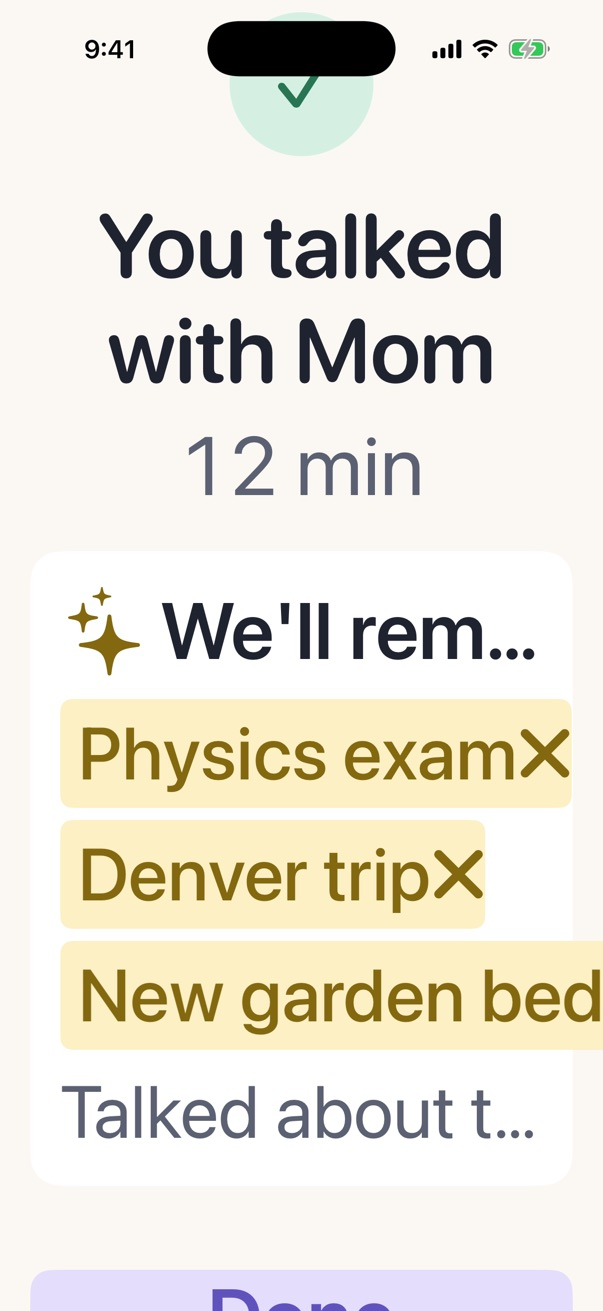
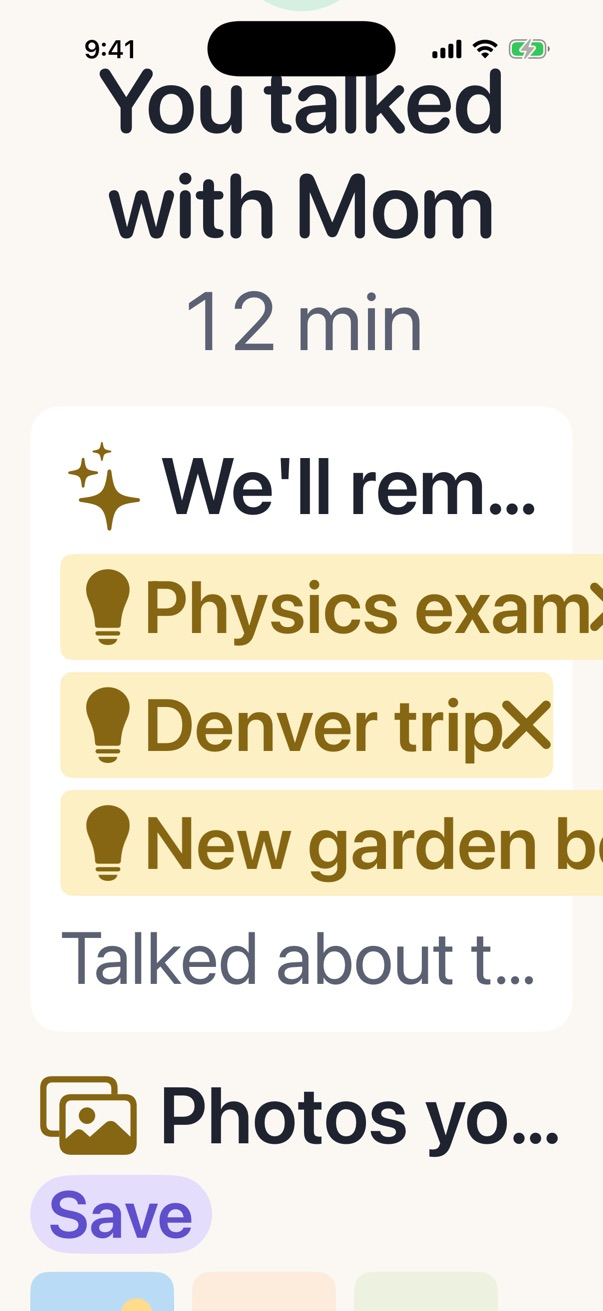
iOS: save or share a call's photos and videos from the summary
The post-call summary gets a Save menu (Save All to Photos / Share…) and a
per-item long-press menu. Items download to a temp folder, go to Photos or the
share sheet, and are deleted afterwards. Links expire after 5 minutes, so a
failed download refreshes them once. Exporting stops the 10 s auto-close.

CallPhoto now decodes an optional kind (photo/video) and videoUrl, so video
shares export the clip once the server sends them; older responses decode as photos.

diff --git a/ios/App/Call/CallSummaryView.swift b/ios/App/Call/CallSummaryView.swift
@@ -9,6 +9,7 @@ import SwiftUI
 struct CallSummaryView: View {
     @Environment(AppModel.self) private var app
     @State private var interacted = false
+    @State private var exportStatus = ExportStatus.idle
 
     /// The outro starts once the summary has slid in (FlowContainer's move transition).
     static let presentDelay = Motion.Durations.move
@@ -94,10 +95,29 @@ struct CallSummaryView: View {
     }
 
     private func photos(_ p: MemoryStore.PendingSummary) -> some View {
-        VStack(alignment: .leading, spacing: Space.s) {
-            HStack(spacing: Space.xs) {
-                Image(systemName: "photo.on.rectangle").foregroundStyle(Palette.butterStrong)
-                Text("Photos you shared").font(.headline).foregroundStyle(Palette.ink)
+        let hasVideo = p.photos.contains(where: \.isVideo)
+        return VStack(alignment: .leading, spacing: Space.s) {
+            AdaptiveStack(spacing: Space.xs) {
+                HStack(spacing: Space.xs) {
+                    Image(systemName: "photo.on.rectangle").foregroundStyle(Palette.butterStrong)
+                    Text(hasVideo ? "Photos and videos you shared" : "Photos you shared").font(.headline).foregroundStyle(Palette.ink)
+                }
+                .frame(maxWidth: .infinity, alignment: .leading)
+                Menu {
+                    Button("Save All to Photos", systemImage: "square.and.arrow.down") { export(p.photos, callId: p.callId, to: .photos) }
+                    Button("Share…", systemImage: "square.and.arrow.up") { export(p.photos, callId: p.callId, to: .shareSheet) }
+                } label: {
+                    Group {
+                        if exportStatus == .working { ProgressView().controlSize(.small) } else { Text("Save") }
+                    }
+                    .font(.footnote.weight(.semibold))
+                    .foregroundStyle(Palette.lavenderStrong)
+                    .padding(.horizontal, Space.s)
+                    .frame(minWidth: 44, minHeight: 34)
+                    .background(Palette.lavender, in: Capsule())
+                }
+                .disabled(exportStatus == .working)
+                .accessibilityLabel(hasVideo ? "Save photos and videos" : "Save photos")
             }
             .padding(.horizontal, Space.margin)
             ScrollView(.horizontal, showsIndicators: false) {
@@ -106,14 +126,107 @@ struct CallSummaryView: View {
                         // Screenshot mode has no server, so its fixtures name a bundled scene instead.
                         PhotoContent(image: app.isPreview ? .placeholder(photo.shareId) : .url(photo.url))
                             .frame(width: 96, height: 128)
+                            .overlay(alignment: .bottomLeading) {
+                                if photo.isVideo {
+                                    Image(systemName: "play.fill").font(.caption.weight(.bold)).foregroundStyle(.white)
+                                        .padding(6).background(.black.opacity(0.45), in: Circle()).padding(6)
+                                        .accessibilityHidden(true)
+                                }
+                            }
                             .clipShape(RoundedRectangle(cornerRadius: Radius.input, style: .continuous))
-                            .accessibilityLabel(photo.senderId == p.friendId ? "Photo from \(p.friendName)" : "Photo you showed")
+                            .contentShape(.contextMenuPreview, RoundedRectangle(cornerRadius: Radius.input, style: .continuous))
+                            .contextMenu {
+                                Button("Save to Photos", systemImage: "square.and.arrow.down") { export([photo], callId: p.callId, to: .photos) }
+                                Button("Share…", systemImage: "square.and.arrow.up") { export([photo], callId: p.callId, to: .shareSheet) }
+                            }
+                            .accessibilityLabel(label(for: photo, in: p))
                     }
                 }
                 .padding(.horizontal, Space.margin)
             }
             .simultaneousGesture(DragGesture(minimumDistance: 4).onChanged { _ in interacted = true })
+            exportMessage.padding(.horizontal, Space.margin)
         }
         .transition(.opacity)
     }
+
+    private func label(for photo: CallPhoto, in p: MemoryStore.PendingSummary) -> String {
+        let noun = photo.isVideo ? "Video" : "Photo"
+        return photo.senderId == p.friendId ? "\(noun) from \(p.friendName)" : "\(noun) you showed"
+    }
+
+    @ViewBuilder private var exportMessage: some View {
+        switch exportStatus {
+        case .saved(let count, let videos):
+            Label(savedText(count: count, videos: videos), systemImage: "checkmark.circle.fill")
+                .font(.footnote).foregroundStyle(Palette.inkSecondary).transition(.opacity)
+        case .noAccess:
+            HStack(spacing: Space.xs) {
+                Text("Nudge needs permission to add to Photos.").font(.footnote).foregroundStyle(Palette.inkSecondary)
+                Button("Open Settings") {
+                    if let url = URL(string: UIApplication.openSettingsURLString) { UIApplication.shared.open(url) }
+                }
+                .font(.footnote.weight(.semibold)).foregroundStyle(Palette.lavenderStrong)
+            }
+        case .failed:
+            Text("Couldn't save. Check your connection and try again.").font(.footnote).foregroundStyle(Palette.roseStrong)
+        case .idle, .working:
+            EmptyView()
+        }
+    }
+
+    private func savedText(count: Int, videos: Int) -> String {
+        let photos = count - videos
+        switch (photos, videos) {
+        case (_, 0): return photos == 1 ? "Saved to Photos" : "Saved \(photos) photos to Photos"
+        case (0, _): return videos == 1 ? "Saved to Photos" : "Saved \(videos) videos to Photos"
+        default: return "Saved \(count) items to Photos"
+        }
+    }
+
+    private enum Destination { case photos, shareSheet }
+
+    /// Downloads the items, then saves them or opens the share sheet. Any export keeps the screen from auto-closing.
+    private func export(_ items: [CallPhoto], callId: String, to destination: Destination) {
+        interacted = true
+        // Screenshot mode's photos are bundled scenes with no files behind them.
+        guard !app.isPreview else { return }
+        exportStatus = .working
+        let memory = app.memory
+        Task {
+            do {
+                let files = try await CallMediaExport.download(items, refresh: { await memory.refreshPhotos(callId: callId) })
+                switch destination {
+                case .shareSheet:
+                    exportStatus = .idle
+                    presentShareSheet(files)
+                case .photos:
+                    defer { CallMediaExport.discard(files) }
+                    try await CallMediaExport.saveToPhotos(files)
+                    exportStatus = .saved(count: files.count, videos: files.filter { $0.kind == .video }.count)
+                }
+            } catch CallMediaExport.Failure.photosAccessDenied {
+                exportStatus = .noAccess
+            } catch {
+                exportStatus = .failed
+            }
+        }
+    }
+}
+
+private enum ExportStatus: Equatable {
+    case idle, working, saved(count: Int, videos: Int), noAccess, failed
+}
+
+/// The system share sheet, presented from UIKit so the downloaded files can be deleted once it closes,
+/// whatever the person picked.
+@MainActor private func presentShareSheet(_ files: [CallMediaExport.File]) {
+    let sheet = UIActivityViewController(activityItems: files.map(\.url), applicationActivities: nil)
+    sheet.completionWithItemsHandler = { _, _, _, _ in CallMediaExport.discard(files) }
+    let root = UIApplication.shared.connectedScenes.compactMap { ($0 as? UIWindowScene)?.keyWindow }.first?.rootViewController
+    var top = root
+    while let next = top?.presentedViewController { top = next }
+    guard let top else { return CallMediaExport.discard(files) }
+    sheet.popoverPresentationController?.sourceView = top.view
+    top.present(sheet, animated: true)
 }

diff --git a/ios/Packages/NudgeKit/Tests/NudgeKitTests/CallMediaExportTests.swift b/ios/Packages/NudgeKit/Tests/NudgeKitTests/CallMediaExportTests.swift
@@ -1,0 +1,92 @@
+import Foundation
+import Testing
+@testable import Models
+@testable import PhotoShare
+
+@Suite("CallMediaExport — post-call save & share", .serialized)
+struct CallMediaExportTests {
+    private func item(_ id: String, kind: CallPhoto.Kind = .photo, url: String = "https://s3.test/photos/u/a.jpg?sig=1", video: String? = nil) -> CallPhoto {
+        CallPhoto(shareId: id, senderId: "u_1", kind: kind, url: URL(string: url)!, videoUrl: video.flatMap(URL.init(string:)), createdAt: .now)
+    }
+
+    @Test func decodesPhotosFromServersWithoutVideo() throws {
+        let json = #"{"shareId":"s_1","senderId":"u_1","url":"https://x/a.jpg","createdAt":"2026-09-26T15:00:00.000Z"}"#
+        let p = try NudgeJSON.decoder().decode(CallPhoto.self, from: Data(json.utf8))
+        #expect(p.kind == .photo && !p.isVideo && p.exportURL.absoluteString == "https://x/a.jpg")
+    }
+
+    @Test func decodesVideosAndExportsTheClip() throws {
+        let json = #"{"shareId":"s_2","senderId":"u_1","kind":"video","url":"https://x/a.jpg","videoUrl":"https://x/a.mp4","createdAt":"2026-09-26T15:00:00Z"}"#
+        let v = try NudgeJSON.decoder().decode(CallPhoto.self, from: Data(json.utf8))
+        #expect(v.isVideo && v.exportURL.absoluteString == "https://x/a.mp4")
+    }
+
+    @Test func unknownKindsOrMissingClipsFallBackToTheImage() throws {
+        let json = #"{"shareId":"s_3","senderId":"u_1","kind":"hologram","url":"https://x/a.jpg","createdAt":"2026-09-26T15:00:00Z"}"#
+        #expect(try NudgeJSON.decoder().decode(CallPhoto.self, from: Data(json.utf8)).kind == .photo)
+        let clipless = item("s_4", kind: .video)
+        #expect(!clipless.isVideo && clipless.exportURL == clipless.url)
+    }
+
+    @Test func namesFilesByShareAndExtension() {
+        #expect(CallMediaExport.fileName(for: item("s_1")) == "nudge-s_1.jpg")
+        #expect(CallMediaExport.fileName(for: item("s_2", kind: .video, video: "https://s3.test/photos/u/a.MOV?sig=1")) == "nudge-s_2.mov")
+        #expect(CallMediaExport.fileName(for: item("s_3", url: "https://s3.test/blob")) == "nudge-s_3.jpg")
+        #expect(CallMediaExport.fileName(for: item("s_4", kind: .video, video: "https://s3.test/clip")) == "nudge-s_4.mp4")
+    }
+
+    @Test func refreshesExpiredLinksOnce() async throws {
+        StubProtocol.responses = [
+            "https://s3.test/ok.jpg": (200, Data("photo".utf8)),
+            "https://s3.test/expired.mp4": (403, Data()),
+            "https://s3.test/fresh.mp4": (200, Data("clip".utf8)),
+        ]
+        let session = StubProtocol.session()
+        let items = [item("s_1", url: "https://s3.test/ok.jpg"), item("s_2", kind: .video, url: "https://s3.test/p.jpg", video: "https://s3.test/expired.mp4")]
+        let fresh = [items[0], item("s_2", kind: .video, url: "https://s3.test/p.jpg", video: "https://s3.test/fresh.mp4")]
+        let refreshes = Counter()
+        let files = try await CallMediaExport.download(items, refresh: { await refreshes.bump(); return fresh }, session: session)
+        defer { CallMediaExport.discard(files) }
+
+        #expect(await refreshes.value == 1)
+        #expect(files.map(\.kind) == [.photo, .video])
+        #expect(try Data(contentsOf: files[1].url) == Data("clip".utf8))
+        CallMediaExport.discard(files)
+        #expect(!FileManager.default.fileExists(atPath: files[0].url.deletingLastPathComponent().path))
+    }
+
+    @Test func failsWhenRefreshDoesNotHelp() async {
+        StubProtocol.responses = ["https://s3.test/gone.jpg": (403, Data())]
+        await #expect(throws: CallMediaExport.Failure.downloadFailed) {
+            _ = try await CallMediaExport.download([item("s_1", url: "https://s3.test/gone.jpg")], refresh: { nil }, session: StubProtocol.session())
+        }
+    }
+}
+
+private actor Counter {
+    var value = 0
+    func bump() { value += 1 }
+}
+
+private final class StubProtocol: URLProtocol, @unchecked Sendable {
+    nonisolated(unsafe) static var responses: [String: (Int, Data)] = [:]
+
+    static func session() -> URLSession {
+        let config = URLSessionConfiguration.ephemeral
+        config.protocolClasses = [StubProtocol.self]
+        return URLSession(configuration: config)
+    }
+
+    override class func canInit(with request: URLRequest) -> Bool { true }
+    override class func canonicalRequest(for request: URLRequest) -> URLRequest { request }
+
+    override func startLoading() {
+        let url = request.url!
+        let (status, body) = Self.responses[url.absoluteString] ?? (404, Data())
+        client?.urlProtocol(self, didReceive: HTTPURLResponse(url: url, statusCode: status, httpVersion: nil, headerFields: nil)!, cacheStoragePolicy: .notAllowed)
+        client?.urlProtocol(self, didLoad: body)
+        client?.urlProtocolDidFinishLoading(self)
+    }
+
+    override func stopLoading() {}
+}

diff --git a/ios/Packages/NudgeKit/Sources/PhotoShare/CallMediaExport.swift b/ios/Packages/NudgeKit/Sources/PhotoShare/CallMediaExport.swift
@@ -1,0 +1,91 @@
+import Foundation
+import Models
+import Photos
+import os
+
+/// Post-call export: downloads the photos and videos shown on a call, then saves them to the library
+/// or hands the files to the share sheet. The recap's links expire after 5 minutes, so a failed
+/// download asks `refresh` for new ones once before giving up.
+public enum CallMediaExport {
+    public enum Failure: Error, Equatable, Sendable {
+        case photosAccessDenied
+        case downloadFailed
+    }
+
+    /// A downloaded item, living in its own temporary folder until `discard` is called.
+    public struct File: Sendable, Hashable {
+        public var url: URL
+        public var kind: CallPhoto.Kind
+    }
+
+    private static let log = Logger(subsystem: "app.nudge", category: "export")
+
+    /// `nudge-<shareId>.<ext>`, taking the extension from the link (S3 keeps the key's) and falling back by kind.
+    public static func fileName(for item: CallPhoto) -> String {
+        let ext = item.exportURL.pathExtension.lowercased()
+        let fallback = item.isVideo ? "mp4" : "jpg"
+        return "nudge-\(item.shareId).\(ext.isEmpty ? fallback : ext)"
+    }
+
+    /// Downloads every item, oldest first. Throws `.downloadFailed` if any item still fails after one refresh.
+    public static func download(
+        _ items: [CallPhoto],
+        refresh: @Sendable () async -> [CallPhoto]?,
+        session: URLSession = .shared
+    ) async throws -> [File] {
+        let dir = FileManager.default.temporaryDirectory.appending(path: "call-export-\(UUID().uuidString)", directoryHint: .isDirectory)
+        try FileManager.default.createDirectory(at: dir, withIntermediateDirectories: true)
+        var files: [File] = []
+        var fresh: [String: CallPhoto]?
+        do {
+            for item in items {
+                let dest = dir.appending(path: fileName(for: item))
+                if await fetch(item.exportURL, to: dest, session: session) {
+                    files.append(File(url: dest, kind: item.isVideo ? .video : .photo))
+                    continue
+                }
+                if fresh == nil { fresh = Dictionary((await refresh() ?? []).map { ($0.shareId, $0) }, uniquingKeysWith: { a, _ in a }) }
+                guard let renewed = fresh?[item.shareId], await fetch(renewed.exportURL, to: dest, session: session) else {
+                    throw Failure.downloadFailed
+                }
+                files.append(File(url: dest, kind: renewed.isVideo ? .video : .photo))
+            }
+        } catch {
+            try? FileManager.default.removeItem(at: dir)
+            throw error
+        }
+        return files
+    }
+
+    /// Adds the files to the photo library as new assets. Needs add-only access, which is asked for here.
+    public static func saveToPhotos(_ files: [File]) async throws {
+        let status = await PHPhotoLibrary.requestAuthorization(for: .addOnly)
+        guard status == .authorized || status == .limited else { throw Failure.photosAccessDenied }
+        try await PHPhotoLibrary.shared().performChanges {
+            for file in files {
+                PHAssetCreationRequest.forAsset().addResource(with: file.kind == .video ? .video : .photo, fileURL: file.url, options: nil)
+            }
+        }
+    }
+
+    /// Deletes the temporary folder the files were downloaded into.
+    public static func discard(_ files: [File]) {
+        for dir in Set(files.map { $0.url.deletingLastPathComponent() }) { try? FileManager.default.removeItem(at: dir) }
+    }
+
+    private static func fetch(_ url: URL, to dest: URL, session: URLSession) async -> Bool {
+        do {
+            let (tmp, response) = try await session.download(from: url)
+            guard (response as? HTTPURLResponse)?.statusCode == 200 else {
+                try? FileManager.default.removeItem(at: tmp)
+                return false
+            }
+            try? FileManager.default.removeItem(at: dest)
+            try FileManager.default.moveItem(at: tmp, to: dest)
+            return true
+        } catch {
+            log.error("download failed: \(error.localizedDescription, privacy: .public)")
+            return false
+        }
+    }
+}

diff --git a/ios/Packages/NudgeKit/Sources/Models/DTOs.swift b/ios/Packages/NudgeKit/Sources/Models/DTOs.swift
@@ -620,20 +620,41 @@ public struct ShareCreated: Codable, Sendable, Hashable {
     public var thumbUrl: URL
 }
 
-/// A photo either person showed during a call, for the post-call recap. `url` expires after 5 minutes.
+/// A photo or video either person showed during a call, for the post-call recap. URLs expire after 5 minutes.
+/// For a video, `url` is its poster frame and `videoUrl` the clip; servers that predate video send neither `kind` nor `videoUrl`.
 public struct CallPhoto: Codable, Sendable, Hashable, Identifiable {
+    public enum Kind: String, Codable, Sendable, Hashable { case photo, video }
+
     public var shareId: String
     public var senderId: String
+    public var kind: Kind
     public var url: URL
+    public var videoUrl: URL?
     public var createdAt: Date
 
     public var id: String { shareId }
+    public var isVideo: Bool { kind == .video && videoUrl != nil }
+    /// What to save or share: the clip for a video, the image otherwise.
+    public var exportURL: URL { isVideo ? videoUrl ?? url : url }
 
-    public init(shareId: String, senderId: String, url: URL, createdAt: Date) {
+    public init(shareId: String, senderId: String, kind: Kind = .photo, url: URL, videoUrl: URL? = nil, createdAt: Date) {
         self.shareId = shareId
         self.senderId = senderId
+        self.kind = kind
         self.url = url
+        self.videoUrl = videoUrl
         self.createdAt = createdAt
+    }
+
+    public init(from decoder: Decoder) throws {
+        let c = try decoder.container(keyedBy: CodingKeys.self)
+        shareId = try c.decode(String.self, forKey: .shareId)
+        senderId = try c.decode(String.self, forKey: .senderId)
+        // An unknown kind from a newer server falls back to a photo: its `url` is always an image.
+        kind = (try? c.decodeIfPresent(Kind.self, forKey: .kind)) ?? .photo
+        url = try c.decode(URL.self, forKey: .url)
+        videoUrl = try c.decodeIfPresent(URL.self, forKey: .videoUrl)
+        createdAt = try c.decode(Date.self, forKey: .createdAt)
     }
 }
 

diff --git a/ios/Packages/NudgeKit/Sources/Memory/MemoryStore.swift b/ios/Packages/NudgeKit/Sources/Memory/MemoryStore.swift
@@ -106,6 +106,13 @@ public final class MemoryStore {
         pendingSummary?.summary = s
     }
 
+    /// Fetches new links for the summary's photos (they expire after 5 minutes), for export.
+    public func refreshPhotos(callId: String) async -> [CallPhoto]? {
+        guard let photos = try? await api.callPhotos(callId: callId) else { return nil }
+        if pendingSummary?.callId == callId { pendingSummary?.photos = photos }
+        return photos
+    }
+
     public func dismissSummary() {
         pollTask?.cancel()
         photosTask?.cancel()
